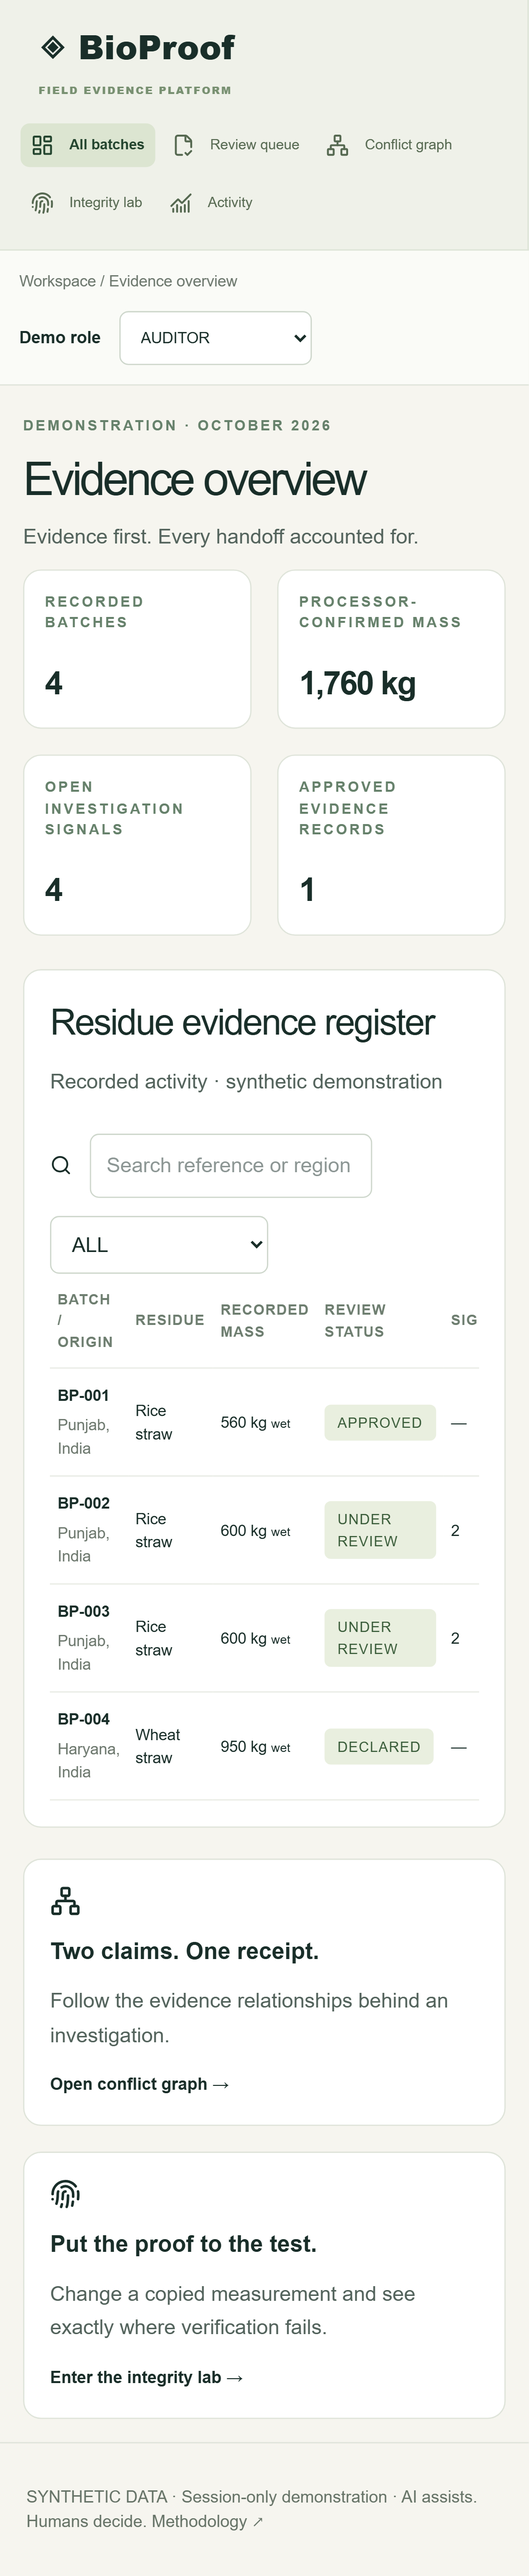
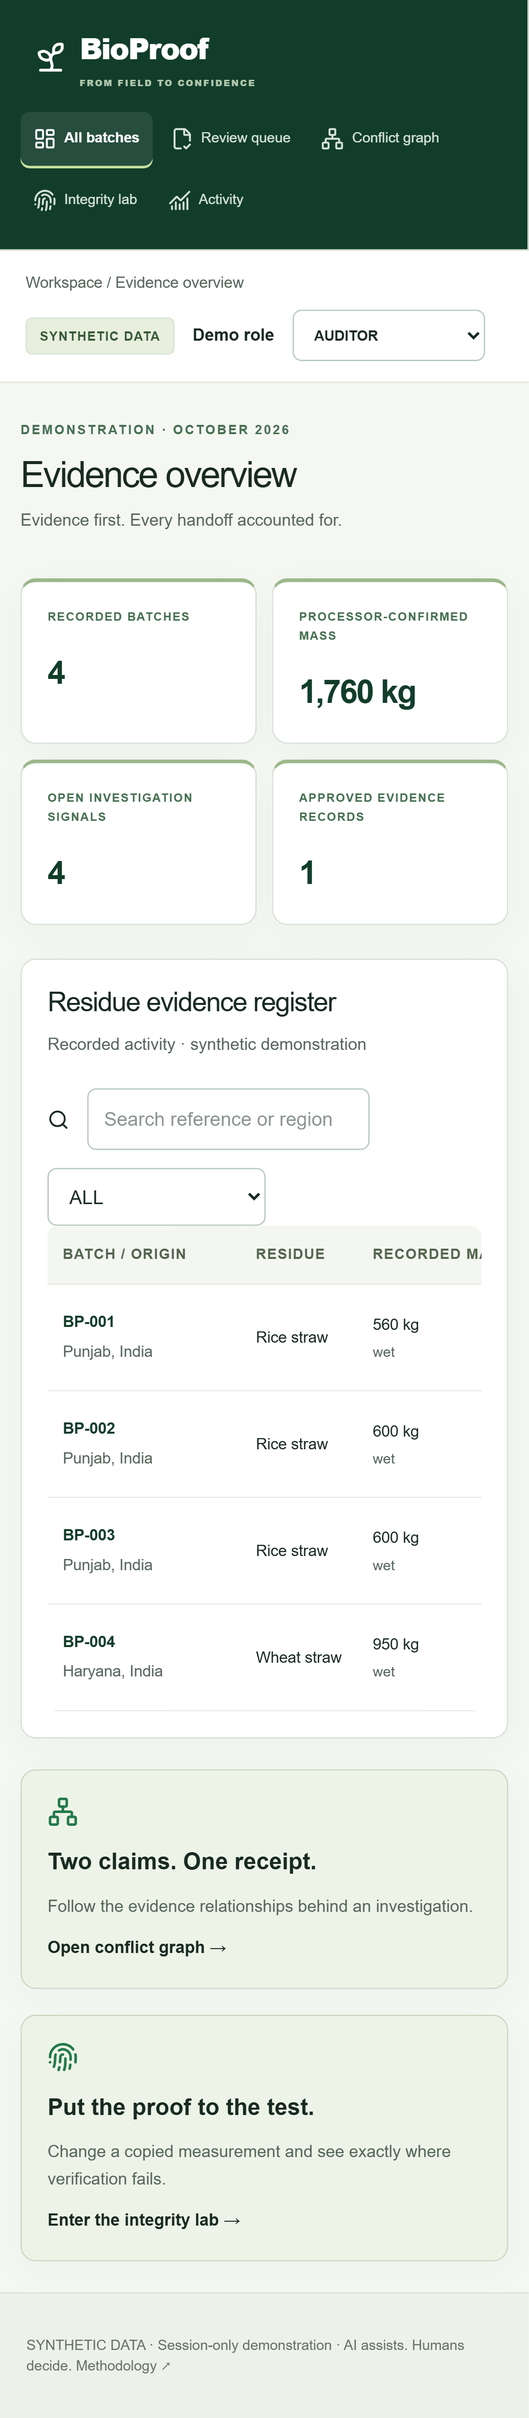
test: verify responsive redesign and capture production screenshots

diff --git a/tests/browser/redesign.spec.ts b/tests/browser/redesign.spec.ts
@@ -1,0 +1,83 @@
+import { test, expect } from "@playwright/test";
+
+test("public navigation, photo loading and attribution", async ({
+  page,
+  isMobile,
+}) => {
+  await page.goto("/");
+  const hero = page.getByRole("img", {
+    name: "Straw bales in a harvested wheat field under a cloudy sky",
+  });
+  await expect(hero).toBeVisible();
+  await expect
+    .poll(() =>
+      hero.evaluate(
+        (img: HTMLImageElement) => img.complete && img.naturalWidth > 0,
+      ),
+    )
+    .toBe(true);
+  if (isMobile) {
+    const menu = page.getByRole("button", { name: "Menu" });
+    await menu.click();
+    await expect(menu).toHaveAttribute("aria-expanded", "true");
+    await page.keyboard.press("Escape");
+    await expect(menu).toHaveAttribute("aria-expanded", "false");
+    await expect(menu).toBeFocused();
+    await menu.click();
+  }
+  await page
+    .getByRole("navigation")
+    .getByRole("link", { name: "Our purpose" })
+    .click();
+  await expect(
+    page.getByRole("heading", { name: "Photography credits" }),
+  ).toBeVisible();
+  await expect(
+    page.locator("#photo-credits a[href*='pexels.com/photo/']"),
+  ).toHaveCount(5);
+});
+
+test("search empty state and readable creation labels", async ({ page }) => {
+  await page.goto("/demo");
+  await page.getByLabel("Search batches").fill("no-such-batch");
+  await expect(
+    page.getByText("No batches match this view.", { exact: false }),
+  ).toBeVisible();
+  await page.getByLabel("Demo role").selectOption("FARMER");
+  await page.getByRole("link", { name: "New batch", exact: true }).click();
+  await expect(page.getByLabel("Registered plot")).toBeVisible();
+  await expect(
+    page.getByLabel("Estimated available quantity (kg)"),
+  ).toBeVisible();
+  await expect(page.getByLabel("Mass basis", { exact: true })).toBeVisible();
+});
+
+for (const width of [360, 390, 768, 1024, 1440]) {
+  test(`screens fit the viewport at ${width}px`, async ({ page }) => {
+    test.setTimeout(120000);
+    const errors: string[] = [];
+    page.on("pageerror", (error) => errors.push(error.message));
+    await page.setViewportSize({ width, height: 900 });
+    for (const route of [
+      "/",
+      "/login",
+      "/methodology",
+      "/about",
+      "/demo",
+      "/demo/review",
+      "/demo/conflicts",
+      "/demo/lab",
+      "/demo/analytics",
+      "/demo/batches/BP-001",
+      "/verify/BP-001",
+    ]) {
+      await page.goto(route);
+      await expect(page.locator("h1")).toBeVisible();
+      const excess = await page.evaluate(
+        () => document.documentElement.scrollWidth - window.innerWidth,
+      );
+      expect(excess, `${route} horizontal overflow`).toBeLessThanOrEqual(1);
+    }
+    expect(errors).toEqual([]);
+  });
+}

diff --git a/playwright.config.ts b/playwright.config.ts
@@ -1,14 +1,15 @@
 import { defineConfig, devices } from "@playwright/test";
+const port = process.env.PLAYWRIGHT_PORT || "3000";
 export default defineConfig({
   testDir: "./tests/browser",
   fullyParallel: false,
   timeout: 60000,
   expect: { timeout: 15000 },
-  use: { baseURL: "http://127.0.0.1:3000", trace: "retain-on-failure" },
+  use: { baseURL: `http://127.0.0.1:${port}`, trace: "retain-on-failure" },
   webServer: {
-    command: "npm run start -- --hostname 127.0.0.1",
-    url: "http://127.0.0.1:3000",
-    reuseExistingServer: !process.env.CI,
+    command: `npm run start -- --hostname 127.0.0.1 --port ${port}`,
+    url: `http://127.0.0.1:${port}`,
+    reuseExistingServer: !process.env.CI && !process.env.PLAYWRIGHT_PORT,
     timeout: 120000,
   },
   projects: [

diff --git a/docs/UI_REDESIGN.md b/docs/UI_REDESIGN.md
@@ -4,16 +4,41 @@ Scope: presentation only. Reference: https://www.koltiva.com/koltitrace. Origina
 
 ## Screen inventory
 
-| Surface | Preserved behavior |
-| --- | --- |
-| `/` | Demo, sign-in, methodology and public example links |
-| `/login` | Existing email/password handler and redirect |
-| `/demo` and `/dashboard` | Existing catch-all resolver, list/search/filter, role-dependent content |
-| `/review`, `/conflicts`, `/lab`, `/analytics` within each workspace | Existing queues, graph/list, isolated tamper copy and measurements |
-| `/batches/new`, `/batches/[id]` within each workspace | Plot/draft creation, declaration, custody, evidence, decisions, dispute, exports and anchor |
-| `/dashboard/evidence/[id]` | Signed originals, editable extraction JSON and confirmation |
-| `/verify/[id]` | Existing public serializer, integrity and chain results, QR |
-| `/about`, `/methodology` | Factual scope and verification limitations |
-| Loading/error/not-found | Clear recovery and accessible feedback |
+| Surface                                                             | Preserved behavior                                                                          |
+| ------------------------------------------------------------------- | ------------------------------------------------------------------------------------------- |
+| `/`                                                                 | Demo, sign-in, methodology and public example links                                         |
+| `/login`                                                            | Existing email/password handler and redirect                                                |
+| `/demo` and `/dashboard`                                            | Existing catch-all resolver, list/search/filter, role-dependent content                     |
+| `/review`, `/conflicts`, `/lab`, `/analytics` within each workspace | Existing queues, graph/list, isolated tamper copy and measurements                          |
+| `/batches/new`, `/batches/[id]` within each workspace               | Plot/draft creation, declaration, custody, evidence, decisions, dispute, exports and anchor |
+| `/dashboard/evidence/[id]`                                          | Signed originals, editable extraction JSON and confirmation                                 |
+| `/verify/[id]`                                                      | Existing public serializer, integrity and chain results, QR                                 |
+| `/about`, `/methodology`                                            | Factual scope and verification limitations                                                  |
+| Loading/error/not-found                                             | Clear recovery and accessible feedback                                                      |
 
 Baseline: clean working tree; 23 unit/SQL tests passed. Before screenshots use synthetic demo data only. Public photography must never stand in for batch evidence. All live write-based acceptance actions remain with the user; automated workflow tests use the demo.
+
+## Delivered
+
+- Responsive public navigation, original brand treatment, photographic homepage, About and photo credits, methodology and split-layout login.
+- Forest/sage design tokens, semantic status badges, keyboard focus, readable forms, mobile navigation, loading/error/not-found states and reduced-motion support.
+- Dark workspace sidebar, responsive batch table, explicit no-match state, role-aware forms, custody measurements with individual bases/moisture, source panels, review actions and proof history.
+- Restyled evidence inspection, conflict graph/list, tamper lab, activity and public verification. Original action handlers, validation, permission rules and payloads are retained.
+- Five locally hosted real photographs with source/license records. The product screenshot is an actual synthetic-demo capture; no private records are used.
+
+## Verification
+
+- TypeScript, ESLint and production build pass.
+- 23 unit/SQL regression tests pass.
+- Local EVM contract checks pass: authorization, anchoring, mismatch, replay protection and version update.
+- 28 browser tests pass, including the existing custody-to-audit workflow, public redaction, demo state, mobile navigation, photo loading, form labels and horizontal-overflow checks at 360, 390, 768, 1024 and 1440 px.
+- Read-only Supabase check passes: all 14 tables, anonymous denial, both RPCs, private evidence bucket and two stored batch hash chains/projections.
+- Compared the final diff against the pre-redesign revision: no changes to `src/lib`, `src/app/api`, `supabase` or `contracts`.
+
+Browser tests use a fresh production server on port 3100 (`PLAYWRIGHT_PORT`) to avoid reusing a stale development server. Desktop/mobile production captures are under `docs/screenshots/redesign-*-1440.png` and `redesign-*-390.png`.
+
+## Limits and live acceptance
+
+No hosted deployment was performed. No live database records were changed. Authenticated uploads, AI extraction and live Sepolia transactions were not repeated because that would require real account sessions, documents or external credentials; their existing handlers are unchanged. Demo tests exercise upload hashing, independent custody and approval. Operational acceptance should still be checked with authorized accounts after deployment. An agricultural marketing photo is never evidence for a batch.
+
+Visual fixes include empty search feedback, linked form labels and individual measurement basis display; no domain calculation changes were introduced.
